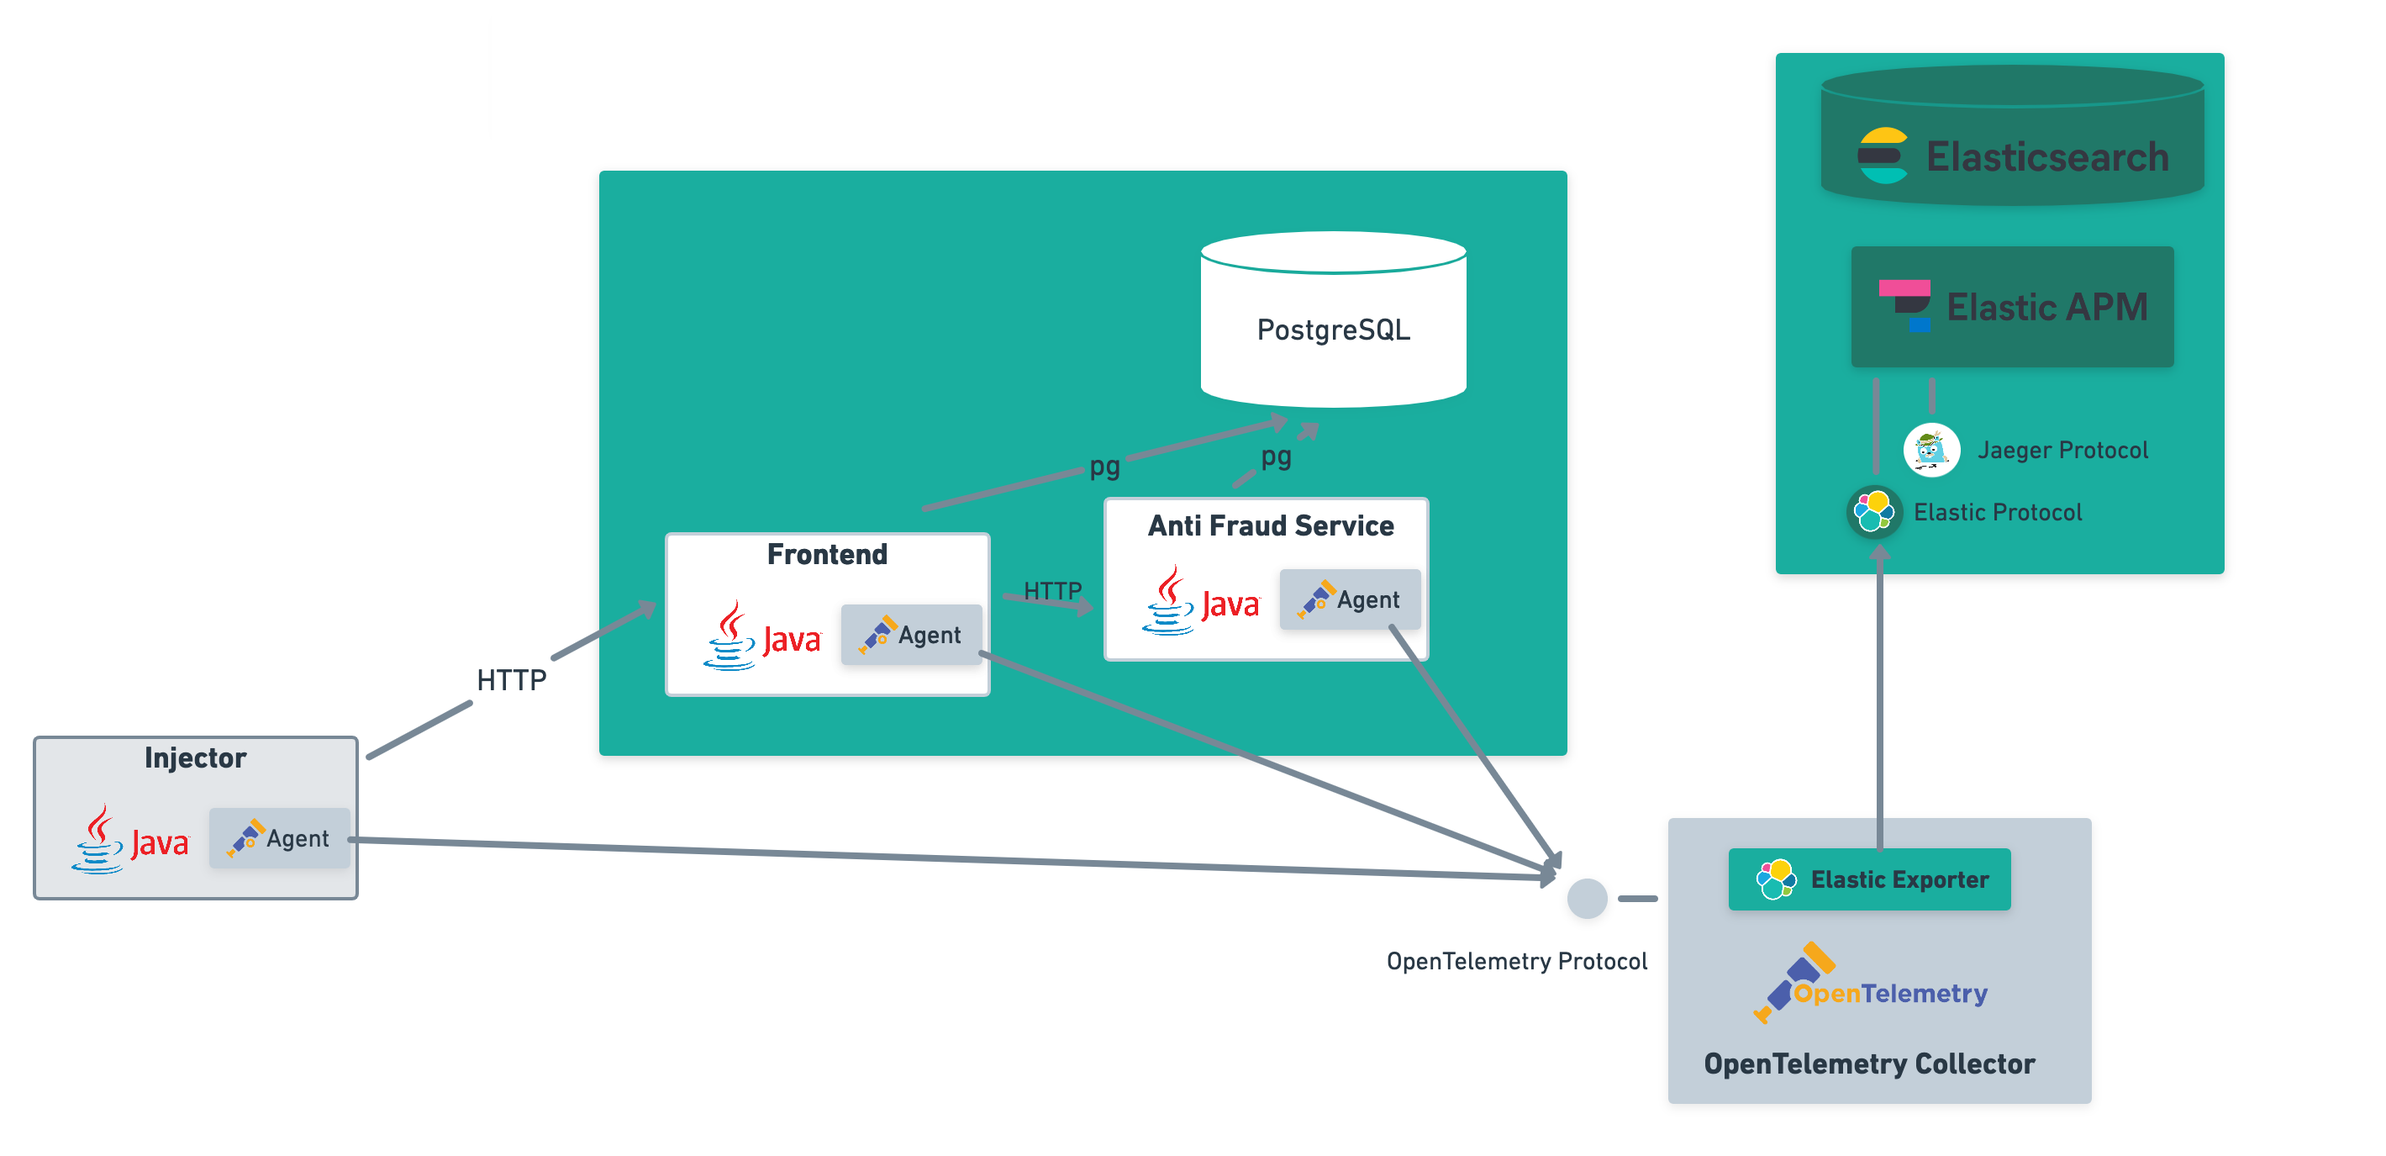
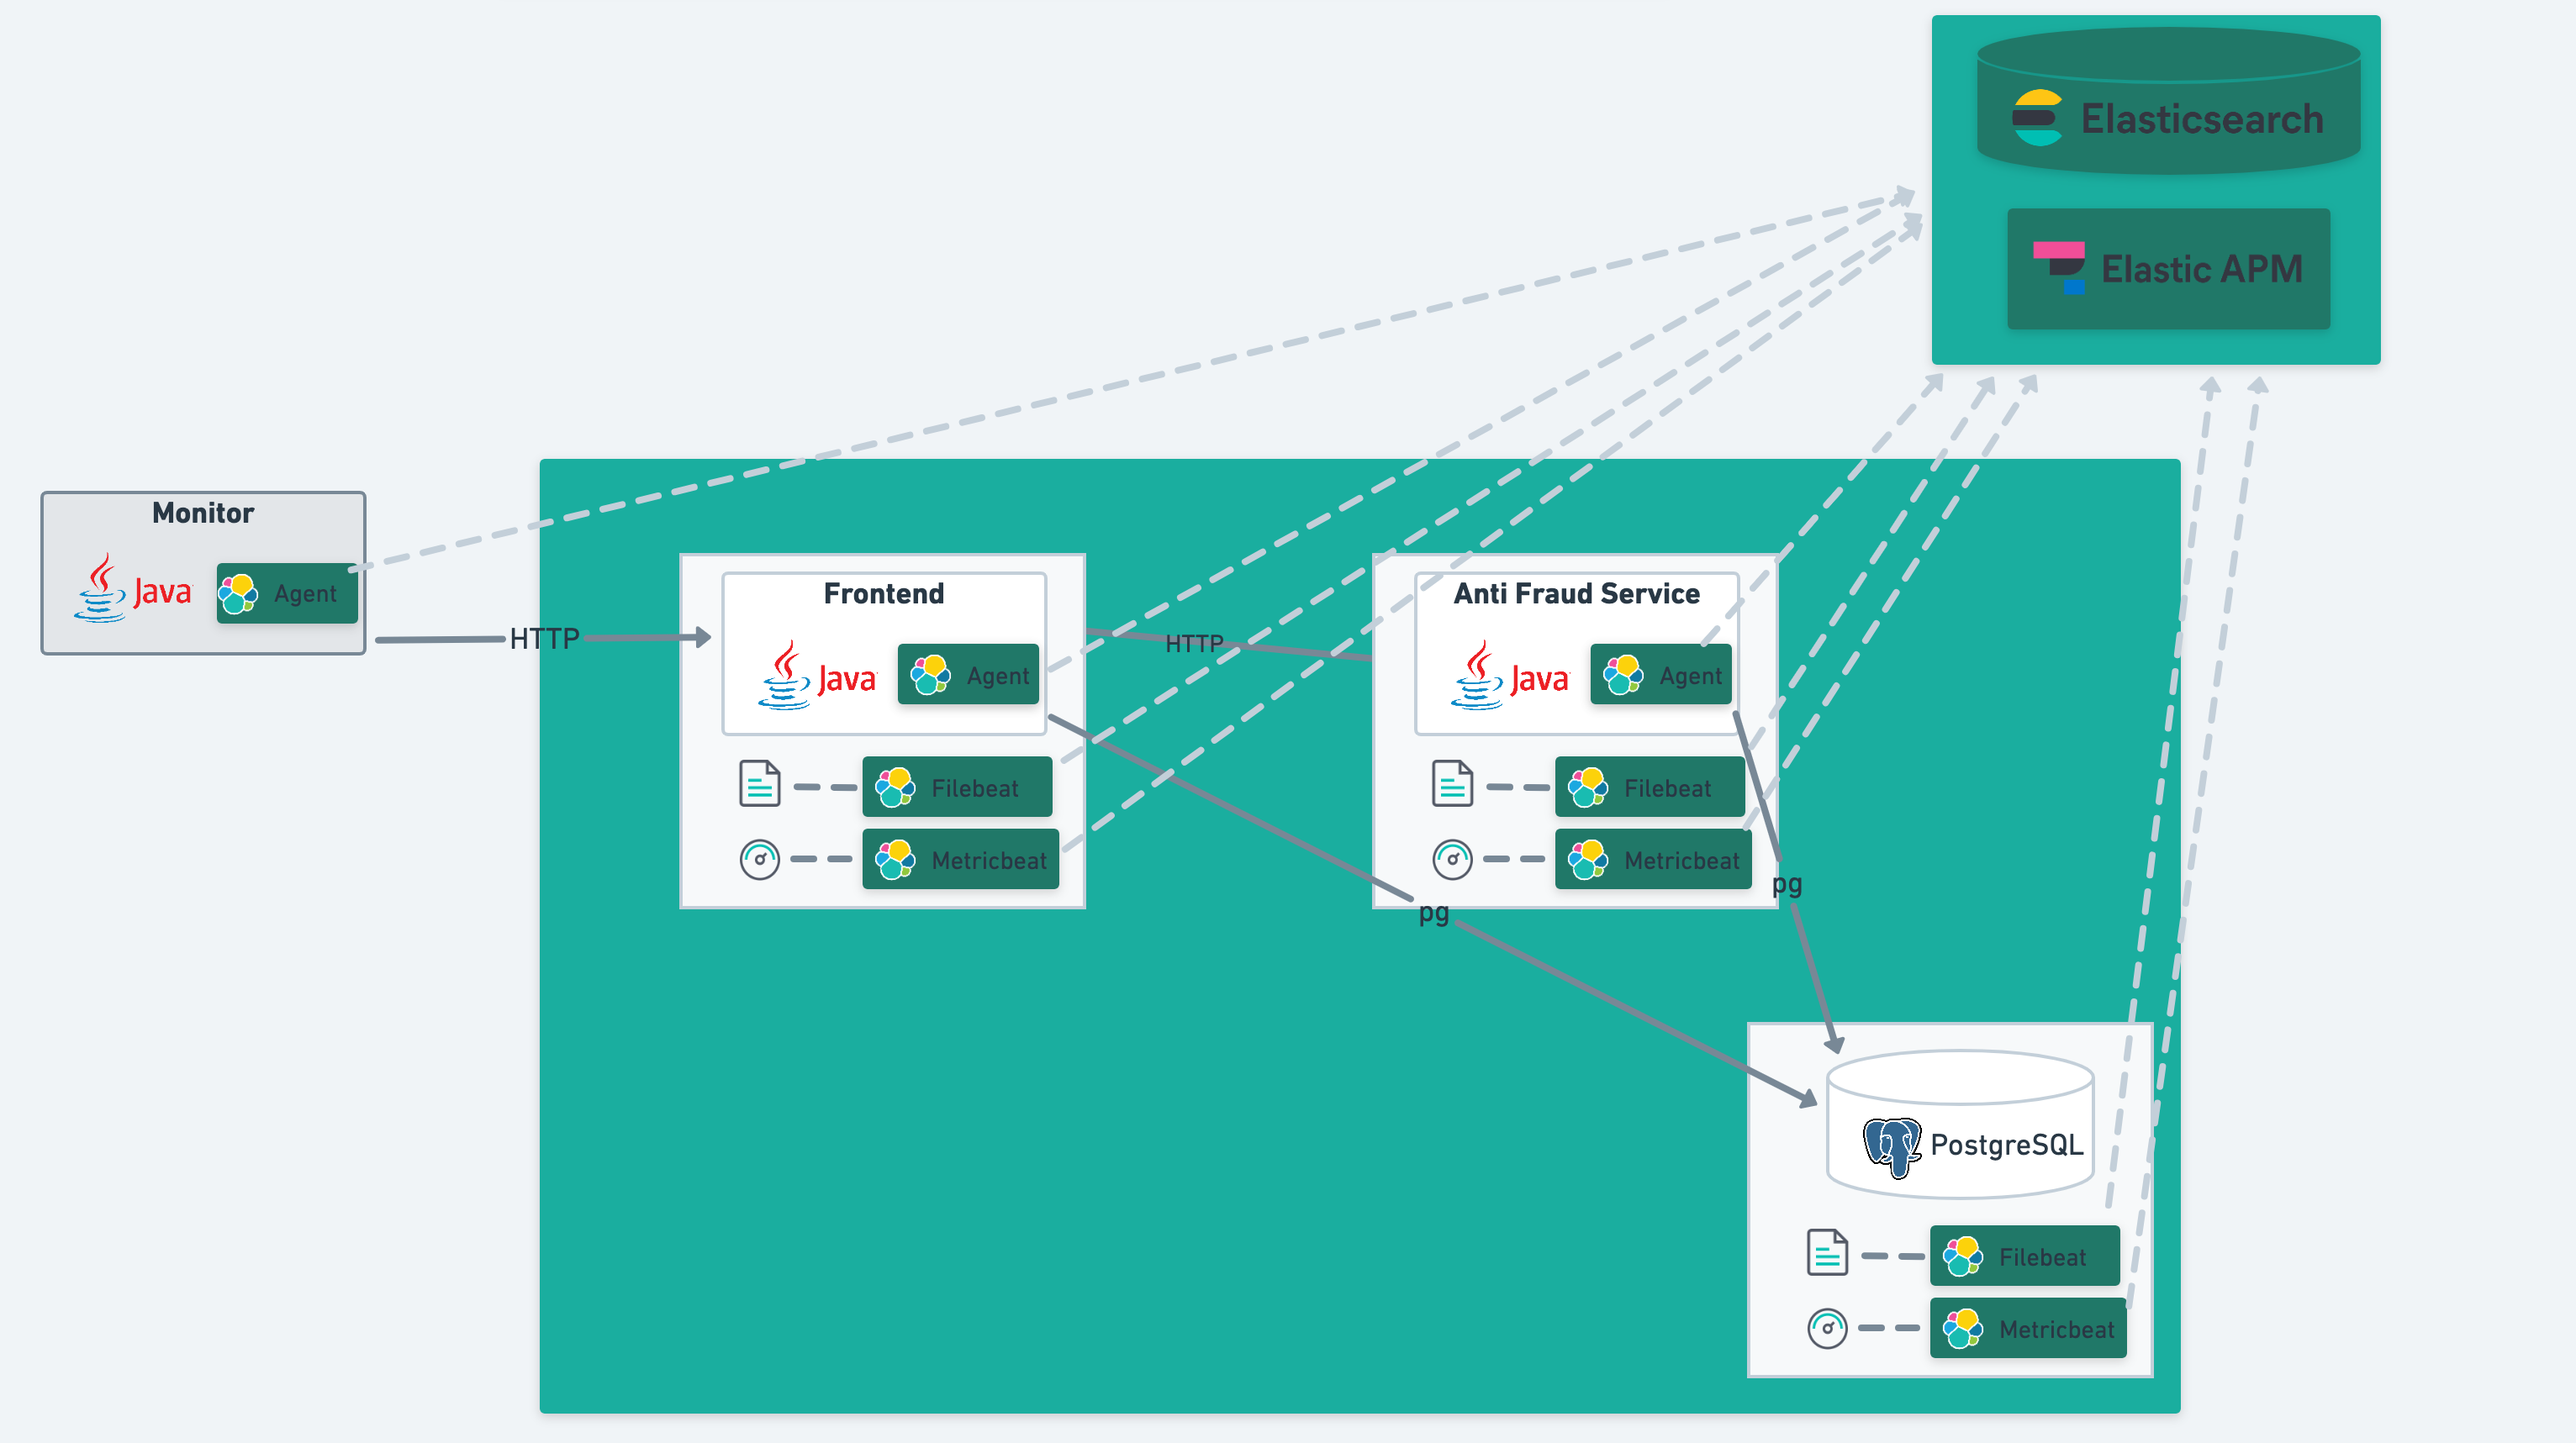
Better documentation

diff --git a/README.md b/README.md
@@ -6,12 +6,10 @@
     * Hibernate will create a bunch of tables in this `test` database. 
     * Configuration can be changed in the `application.properties` config files
 * Elastic APM
-* OpenTelemetry Collector with https://github.com/open-telemetry/opentelemetry-collector-contrib/pull/240
-    * Cyrille Le Clerc shared the executable for MacOS on Can be downloaded at https://drive.google.com/open?id=1cZQ-84UFnWHu310szerEDoW58gvbrNVe
 
 # Architecture
 
-![](https://github.com/cyrille-leclerc/my-shopping-cart/raw/open-telemetry/docs/images/demo-architecture.png)
+![](https://github.com/cyrille-leclerc/my-shopping-cart/raw/elastic/docs/images/demo-architecture.png)
 
 # Run the sample
 
@@ -31,16 +29,7 @@ GRANT ALL PRIVILEGES ON DATABASE test TO test;
 
 ```
 
-* shell 1: start OpenTelemetry collector
-   * Download the OpenTelemetry collector. e.g. otelcontribcol-dc17498 for Mac -> https://drive.google.com/open?id=1cZQ-84UFnWHu310szerEDoW58gvbrNVe
-   * Install `otelcontribcol-dc17498` in your PATH, typically under `~/bin/`
-   * Run the collector
- ```
-cd opentelemetry-collector/
-./run-opentelemetry-collector.sh  
-```
-
-* shell 2: Anti Fraud service
+* shell 1: Anti Fraud service
  
 ```
  cd anti-fraud-java/
@@ -54,7 +43,7 @@ cd opentelemetry-collector/
  ./run-frontend.sh  
  ```
 
-* shell 4: Monitor to inject load on the application
+* shell 3: Monitor to inject load on the application
  ```
 cd monitor-java
 ./run-monitor.sh  
@@ -63,40 +52,4 @@ cd monitor-java
 
 # Sample execution
 
-
-
-* shell 1: start OpenTelemetry collector
-
- ```
-WARNING hardcoded opentelemetry collector executable: otelcontribcol-dc17498, to change the executable path, edit ./run-opentelemetry-collector.sh
-+ otelcontribcol-dc17498 --config ./opentelemetry-collector-exporter-elastic.yaml
-2020-05-31T16:05:00.734+0200    INFO    service/service.go:382  Starting OpenTelemetry Contrib Collector...     {"Version": "latest", "GitHash": "dc17498", "NumCPU": 8}
-2020-05-31T16:05:00.734+0200    INFO    service/service.go:221  Setting up own telemetry...
-2020-05-31T16:05:00.735+0200    INFO    service/telemetry.go:94 Serving Prometheus metrics      {"address": "localhost:8888", "legacy_metrics": true, "new_metrics": false, "level": 3, "service.instance.id": ""}
-2020-05-31T16:05:00.735+0200    INFO    service/service.go:259  Loading configuration...
-2020-05-31T16:05:00.736+0200    INFO    service/service.go:270  Applying configuration...
-2020-05-31T16:05:00.736+0200    INFO    service/service.go:291  Starting extensions...
-2020-05-31T16:05:00.736+0200    INFO    builder/exporters_builder.go:302        Exporter is enabled.    {"component_kind": "exporter", "exporter": "elastic"}
-2020-05-31T16:05:00.736+0200    INFO    builder/exporters_builder.go:302        Exporter is enabled.    {"component_kind": "exporter", "exporter": "logging"}
-2020-05-31T16:05:00.736+0200    INFO    builder/exporters_builder.go:302        Exporter is enabled.    {"component_kind": "exporter", "exporter": "jaeger"}
-2020-05-31T16:05:00.736+0200    INFO    service/service.go:306  Starting exporters...
-2020-05-31T16:05:00.736+0200    INFO    builder/exporters_builder.go:90 Exporter is starting... {"component_kind": "exporter", "component_type": "elastic", "component_name": "elastic"}
-2020-05-31T16:05:00.736+0200    INFO    builder/exporters_builder.go:95 Exporter started.       {"component_kind": "exporter", "component_type": "elastic", "component_name": "elastic"}
-2020-05-31T16:05:00.736+0200    INFO    builder/exporters_builder.go:90 Exporter is starting... {"component_kind": "exporter", "component_type": "logging", "component_name": "logging"}
-2020-05-31T16:05:00.736+0200    INFO    builder/exporters_builder.go:95 Exporter started.       {"component_kind": "exporter", "component_type": "logging", "component_name": "logging"}
-2020-05-31T16:05:00.736+0200    INFO    builder/exporters_builder.go:90 Exporter is starting... {"component_kind": "exporter", "component_type": "jaeger", "component_name": "jaeger"}
-2020-05-31T16:05:00.736+0200    INFO    builder/exporters_builder.go:95 Exporter started.       {"component_kind": "exporter", "component_type": "jaeger", "component_name": "jaeger"}
-2020-05-31T16:05:00.736+0200    INFO    builder/pipelines_builder.go:205        Pipeline is enabled.    {"pipeline_name": "traces", "pipeline_datatype": "traces"}
-2020-05-31T16:05:00.736+0200    INFO    service/service.go:319  Starting processors...
-2020-05-31T16:05:00.736+0200    INFO    builder/pipelines_builder.go:52 Pipeline is starting... {"pipeline_name": "traces", "pipeline_datatype": "traces"}
-2020-05-31T16:05:00.736+0200    INFO    builder/pipelines_builder.go:62 Pipeline is started.    {"pipeline_name": "traces", "pipeline_datatype": "traces"}
-2020-05-31T16:05:00.737+0200    INFO    builder/receivers_builder.go:234        Receiver is enabled.    {"component_kind": "receiver", "component_type": "otlp", "component_name": "otlp", "datatype": "traces"}
-2020-05-31T16:05:00.737+0200    INFO    service/service.go:331  Starting receivers...
-2020-05-31T16:05:00.737+0200    INFO    builder/receivers_builder.go:74 Receiver is starting... {"component_kind": "receiver", "component_type": "otlp", "component_name": "otlp"}
-2020-05-31T16:05:00.737+0200    INFO    builder/receivers_builder.go:79 Receiver started.       {"component_kind": "receiver", "component_type": "otlp", "component_name": "otlp"}
-2020-05-31T16:05:00.737+0200    INFO    service/service.go:233  Everything is ready. Begin running and processing data.
-2020-05-31T16:06:05.331+0200    INFO    loggingexporter/logging_exporter.go:90  TraceExporter   {"#spans": 38}`
-...
-```
-
-![](https://github.com/cyrille-leclerc/my-shopping-cart/raw/open-telemetry/docs/images/elastic-apm-distributed-trace-opentelemetry.png)
+![](https://github.com/cyrille-leclerc/my-shopping-cart/raw/elastic/docs/images/elastic-apm-distributed-trace-elastic.png)
